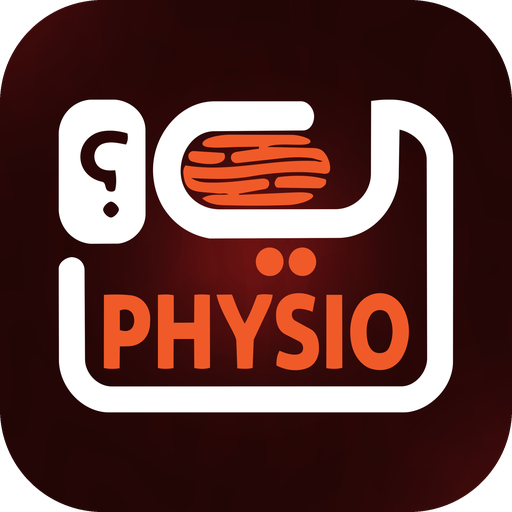
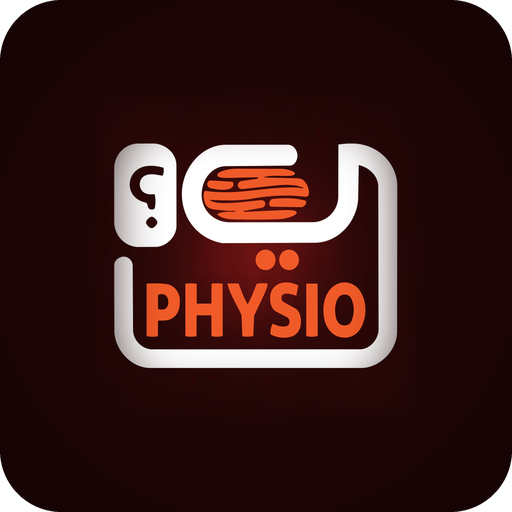
feat: add PWA support and main layout components

diff --git a/src/layouts/MainLayout.tsx b/src/layouts/MainLayout.tsx
@@ -122,8 +122,8 @@ export const MainLayout: React.FC<MainLayoutProps> = ({ children, unseenCount, s
             <div className="absolute inset-0 bg-gradient-to-r from-transparent via-brand-orange/[0.03] to-transparent animate-shimmer pointer-events-none" />
 
             <div className="flex items-start gap-3.5 relative z-10">
-              <div className="w-14 h-14 rounded-2xl overflow-hidden border-2 border-brand-orange/30 shadow-lg shadow-brand-orange/10 shrink-0 bg-brand-orange">
-                <img src="/icon-192.webp" width={96} height={96} alt="Leh Physio" className="w-full h-full object-cover" />
+              <div className="w-14 h-14 rounded-2xl overflow-hidden border-2 border-brand-orange/30 shadow-lg shadow-brand-orange/10 shrink-0 bg-[#240605]">
+                <img src="/icon-192x192.png" width={96} height={96} alt="Leh Physio" className="w-full h-full object-cover" />
               </div>
 
               <div className="flex-1 min-w-0">
@@ -169,8 +169,8 @@ export const MainLayout: React.FC<MainLayoutProps> = ({ children, unseenCount, s
             className="fixed bottom-nav-offset md:bottom-6 end-4 start-4 md:start-auto md:w-[420px] z-[9999] rounded-3xl border border-white/10 bg-zinc-950/95 p-6 shadow-[0_12px_45px_rgba(0,0,0,0.8)] flex flex-col gap-4 text-start font-sans"
           >
             <div className="flex items-start gap-4">
-              <div className="w-14 h-14 rounded-2xl overflow-hidden border-2 border-brand-orange/30 shadow-lg shadow-brand-orange/10 shrink-0 bg-brand-orange">
-                <img src="/icon-192.webp" width={96} height={96} alt="LehPhysio" className="w-full h-full object-cover" />
+              <div className="w-14 h-14 rounded-2xl overflow-hidden border-2 border-brand-orange/30 shadow-lg shadow-brand-orange/10 shrink-0 bg-[#240605]">
+                <img src="/icon-192x192.png" width={96} height={96} alt="LehPhysio" className="w-full h-full object-cover" />
               </div>
 
               <div className="flex-1 min-w-0">
